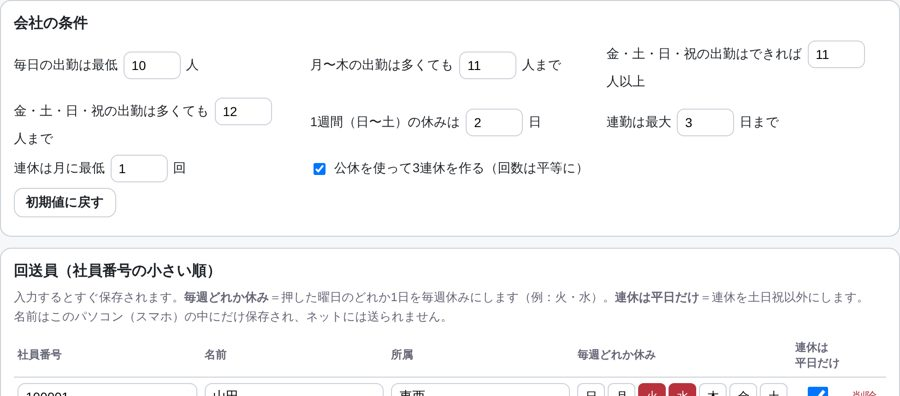
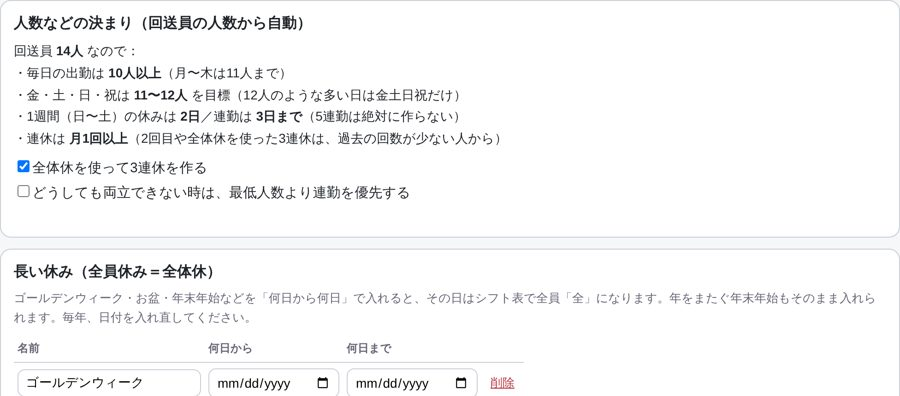
印刷の修正：iPhoneで白紙になる問題、iPhoneでは表を回して横向きに、使い方の紙が切れる問題
Claude-Session: https://claude.ai/code/session_01BEib5Wy31RxeUGwtAmnXq7

diff --git a/shift/index.html b/shift/index.html
@@ -84,6 +84,7 @@ th.shuku{color:var(--sun);background:#fde8eb}
 .ask label{display:flex;align-items:center;gap:6px;flex-wrap:wrap}
 #printRoot{display:none}
 @page{size:A4 landscape;margin:8mm}
+html.ios{}
 @media print{
  body{background:#fff;padding:0;-webkit-print-color-adjust:exact;print-color-adjust:exact}
  body>*:not(#printRoot){display:none!important}
@@ -91,6 +92,14 @@ th.shuku{color:var(--sun);background:#fde8eb}
  .sheet{padding:0}
  .out{width:100%}.out th,.out td{height:24px;font-size:11px}
  .hope .out td{height:36px}
+ html.ios #printRoot{position:absolute;top:0;left:0;width:262mm;height:180mm;overflow:hidden;transform-origin:top left;transform:translateX(180mm) rotate(90deg)}
+ html.ios .out{width:100%;table-layout:fixed}
+ html.ios .out th,html.ios .out td{height:21px;font-size:10px;min-width:0;padding:0}
+ html.ios .out td.id,html.ios .out th:first-child{width:46px;font-size:8px}
+ html.ios .out td.co,html.ios .out th:nth-child(2){width:36px;font-size:7px}
+ html.ios .out td.nm,html.ios .out th:nth-child(3){width:54px;font-size:10px}
+ html.ios .hope .out td{height:29px}
+ html.ios .sheet h3{font-size:15px;margin:0 0 3px}
 }
 </style>
 </head>
@@ -382,8 +391,10 @@ function drawHope(){const {y,m,nd,dow}=ymParts();const M=cur();const mem=members
  $("hopeArea").innerHTML=h}
 
 /* ---------- 印刷 ---------- */
-function doPrint(id){$("printRoot").innerHTML=$(id).innerHTML;window.print()}
-window.addEventListener("afterprint",()=>{$("printRoot").innerHTML=""});
+/* iPhone・iPad は横向きの指定が効かないので、印刷する表を90度回して縦の紙に横向きで載せる */
+const IOS=/iP(hone|ad|od)/.test(navigator.userAgent)||(navigator.platform==="MacIntel"&&navigator.maxTouchPoints>1);
+if(IOS){document.documentElement.classList.add("ios");const st=document.createElement("style");st.textContent="@page{size:A4 portrait;margin:8mm}";document.head.appendChild(st)}
+function doPrint(id){$("printRoot").innerHTML=$(id).innerHTML;setTimeout(()=>window.print(),300)}
 
 /* ---------- 起動 ---------- */
 sortMembers();ymList();loadMonth();

diff --git a/shift/manual/index.html b/shift/manual/index.html
@@ -36,11 +36,11 @@ b{color:var(--acc)}
 .rules{font-size:12.5px;line-height:1.6;margin-top:6px;border:1px solid var(--line);border-radius:8px;padding:6px 10px}
 .rules h3{font-size:14px;margin:0 0 2px}
 @media (max-width:600px){.body,.cols{grid-template-columns:minmax(0,1fr)}header{flex-wrap:wrap}}
-@page{size:A4;margin:0}
+@page{size:A4;margin:8mm}
 @media print{
  body{background:#fff;padding:0;-webkit-print-color-adjust:exact;print-color-adjust:exact}
  .printbar{display:none!important}
- .page{box-shadow:none;max-width:none;width:210mm;height:297mm;padding:8mm 10mm;overflow:hidden}
+ .page{box-shadow:none;max-width:none;width:auto;height:auto;padding:0;overflow:visible;zoom:.86}
 }
 </style>
 </head>
